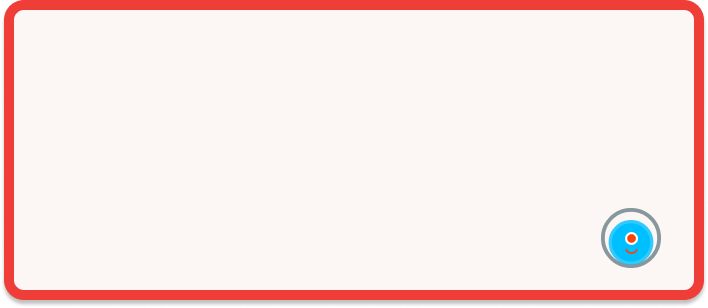
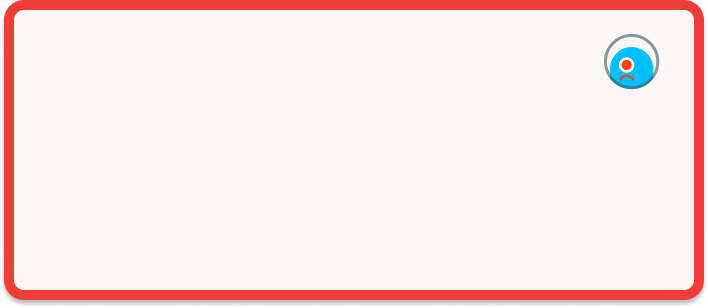
Fix. Error: after failure of Mission cannot be new input possible

Changed region(s): [[0.839, 0.6721, 0.9322, 0.8766], [0.839, 0.0877, 0.9322, 0.2922]]

diff --git a/src/tasks/TestFlight.ts b/src/tasks/TestFlight.ts
@@ -1,6 +1,7 @@
 import Phaser from 'phaser';
 import Player from '../classes/sprites/Player';
 import Wall from '../classes/sprites/Wall';
+import Star from '../classes/sprites/Star';
 import TaskHelper from '../classes/TaskHelper';
 import PopupWindow from '../classes/PopupWindow';
 import DiagramScene from '../scenes/DiagramScene';
@@ -8,6 +9,7 @@ import DiagramScene from '../scenes/DiagramScene';
 export default class TestFlight extends Phaser.GameObjects.Container {
   private player!: Player;
   private wall!: Wall;
+  private star!: Star;
   private taskHelper!: TaskHelper;
   private isSuccessPopupShowed: boolean = false;
 
@@ -18,35 +20,44 @@ export default class TestFlight extends Phaser.GameObjects.Container {
     this.player.setAngle(90);
     this.taskHelper = new TaskHelper(scene, this.player);
 
+    this.star = new Star(this.scene, 355, 315);
     this.wall = new Wall(this.scene, 405, 315);
 
     scene.add.existing(this.player);
+    scene.add.existing(this.star);
     scene.add.existing(this.wall);
   }
 
   restartSimulation = (stateInputData: any, highlightOn: boolean) => {
+    console.log('restartSimulation triggered');
     this.player.cleanUpStars();
     this.player.setPosition(155, 315).setAngle(90);
     this.player.playerHighlight.setPosition(155, 315);
+
+    this.star = new Star(this.scene, 355, 315);
+    this.scene.add.existing(this.star);
 
     this.processStateInputData(stateInputData, highlightOn);
   };
 
   processStateInputData = (stateInputData: any, highlightOn: boolean) => {
+    console.log('processStateInputData triggered');
     this.taskHelper.processStateInputData(stateInputData, highlightOn, () => {
       if (this.taskHelper.wasInfiniteLoopDetected()) {
         // Display infinite loop warning popup
-        const diagramScene = this.scene.scene.get(
-          'DiagramScene'
-        ) as DiagramScene;
-        diagramScene.popupWindow = new PopupWindow(
-          diagramScene,
-          'smBack',
-          `" Oops! \n  Looks like we're going in circles! \n  Check your instructions again.   "`,
-          false
-        );
-        diagramScene.popupWindow.create();
-        diagramScene.add.existing(diagramScene.popupWindow);
+        setTimeout(() => {
+          const diagramScene = this.scene.scene.get(
+            'DiagramScene'
+          ) as DiagramScene;
+          diagramScene.popupWindow = new PopupWindow(
+            diagramScene,
+            'smAlert',
+            `" Oops! \n  Looks like we're going in circles! \n  Check your instructions again.    "`,
+            false
+          );
+          diagramScene.popupWindow.create();
+          diagramScene.add.existing(diagramScene.popupWindow);
+        }, 800);
       } else {
         const positionsCorrect = this.checkObjectPositions();
 
@@ -85,7 +96,9 @@ export default class TestFlight extends Phaser.GameObjects.Container {
               diagramScene.add.existing(diagramScene.popupWindow);
             }, 800);
 
-            this.isSuccessPopupShowed = true;
+            this.scene.events.emit('simulationEnd');
+
+            // this.isSuccessPopupShowed = true;
           }
         }
         console.log(positionsCorrect ? 'Success' : 'Fail');
@@ -100,14 +113,15 @@ export default class TestFlight extends Phaser.GameObjects.Container {
     const isWallAt405315 = this.scene.children.list.some(
       (child) => child instanceof Wall && child.x === 405 && child.y === 315
     );
-    const isOtherObjectsExist = this.scene.children.list.some(
-      (child) =>
-        (child instanceof Player || child instanceof Wall) &&
-        !(
-          (child.x === 355 && child.y === 315) ||
-          (child.x === 405 && child.y === 315)
-        )
-    );
+    const isOtherObjectsExist =
+      this.scene.children.list.some(
+        (child) =>
+          (child instanceof Player || child instanceof Wall) &&
+          !(
+            (child.x === 355 && child.y === 315) ||
+            (child.x === 405 && child.y === 315)
+          )
+      ) || this.scene.children.list.some((child) => child instanceof Star);
 
     return isPlayerAt355315 && isWallAt405315 && !isOtherObjectsExist;
   }

diff --git a/src/classes/DropdownMenu.ts b/src/classes/DropdownMenu.ts
@@ -1,7 +1,6 @@
 import Phaser from 'phaser';
 import { SensorCheck } from './InputManager';
-import InputWindowScene from '../scenes/InputWindowScene';
-import { InputWindow } from './InputWindow';
+import InputWindow from './InputWindow';
 
 export enum SensorType {
   WallFront,
@@ -18,6 +17,7 @@ export interface DropdownOption {
 }
 
 export class DropdownMenu extends Phaser.GameObjects.Container {
+  private id: number = 0;
   private options: DropdownOption[] = [];
   private isMenuOpen: boolean = false;
   private button!: Phaser.GameObjects.Image;
@@ -31,6 +31,7 @@ export class DropdownMenu extends Phaser.GameObjects.Container {
     scene: Phaser.Scene,
     x: number,
     y: number,
+    id: number,
     buttonTexture: string,
     options: DropdownOption[],
     inputWindow?: InputWindow // Adding a new parameter to store a reference to the InputWindow instance
@@ -38,6 +39,7 @@ export class DropdownMenu extends Phaser.GameObjects.Container {
     super(scene, x, y);
     this.inputWindow = inputWindow; // Storing the reference to the InputWindow instance
 
+    this.id = id;
     this.options = options;
     this.button = this.scene.add.image(0, 0, buttonTexture).setInteractive();
     // Adding a tween animation to the button when it is added
@@ -59,7 +61,7 @@ export class DropdownMenu extends Phaser.GameObjects.Container {
         .setDepth(10)
         .on('pointerdown', () => {
           // TODO: DELETE the under test code
-          // console.log(option.value + ' selected!');
+          console.log(option.value + ' selected!');
 
           // TODO: 이 코드 다시 수정할 것 (Sensor 중복 선택하면 alert하는 함수) - 일단 주석처리
           // this.inputWindow?.checkRegistedSensor(option.type);
@@ -68,7 +70,7 @@ export class DropdownMenu extends Phaser.GameObjects.Container {
           this.selectedHightlight(menuItem, this.selectedOptionTexture);
           this.button.setTexture(this.selectedOptionTexture);
           // console.log('(DropdownMenu.ts) option: ', option);
-          // this.handleOptionSelection(option);
+          this.handleOptionSelection(option);
 
           // Check if the event handler has already been executed
           console.log(
@@ -87,7 +89,7 @@ export class DropdownMenu extends Phaser.GameObjects.Container {
 
             this.inputWindow?.addSensorDropdownButton(this); //
           }
-          this.inputWindow?.updateTempSensorInputs(option.type); //
+          this.inputWindow?.updateTempSensorInputs(this.id, option.type); //
 
           this.closeMenu();
         });
@@ -179,7 +181,8 @@ export class DropdownMenu extends Phaser.GameObjects.Container {
 
   // Dropdown의 option이 선택되면 Inputwindow의 임시 저장소에 SensorType 저장
   private handleOptionSelection(option: DropdownOption): void {
-    this.inputWindow && this.inputWindow.updateTempSensorInputs(option.type);
+    this.inputWindow &&
+      this.inputWindow.updateTempSensorInputs(this.id, option.type);
     return;
   }
 

diff --git a/src/classes/InputWindow.ts b/src/classes/InputWindow.ts
@@ -30,6 +30,7 @@ export default class InputWindow extends Phaser.GameObjects.Container {
   private nextStateButtons: NextStateButton[] = [];
   private tempSensorInputs: SensorType[] = []; // Store selected sensor button
   private inputRowCount: number = 1; // 줄 순서대로 입력을 강제하기 위한 인수
+  private sensorButtonId: number = 1;
   private inputGuideline!: InputGuideline;
   private inputGuidelines: InputGuideline[] = [];
   private isActive!: boolean;
@@ -229,14 +230,17 @@ export default class InputWindow extends Phaser.GameObjects.Container {
   };
 
   // Sensor(input) update ( When select Dropdown option )
-  updateTempSensorInputs = (sensorType: SensorType): void => {
-    const index = this.tempSensorInputs.length;
+  updateTempSensorInputs = (buttonId: number, sensorType: SensorType): void => {
+    const index = buttonId - 1;
 
     if (index >= 0 && index < 5) {
       this.tempSensorInputs[index] = sensorType;
+      // StateCircle의 StateInputs 업데이트
+      this.updateStateCircleStateInput();
     } else {
       console.log('Index out of bounds: ', index);
     }
+    console.log('tempSensorInputs', this.tempSensorInputs);
   };
 
   // Update - Condition input
@@ -433,10 +437,12 @@ export default class InputWindow extends Phaser.GameObjects.Container {
     texture: string,
     options: DropdownOption[]
   ): DropdownMenu => {
+    const buttonId = this.sensorButtonId;
     const dropdownButton = new DropdownMenu(
       this.scene,
       x,
       y,
+      buttonId,
       texture,
       options,
       this
@@ -451,16 +457,19 @@ export default class InputWindow extends Phaser.GameObjects.Container {
       this
     );
 
+    console.log('dropdownButton', dropdownButton);
     return dropdownButton;
   };
 
-  // Used to create addtional dropdown button, when option selected
+  // Used to create addtional dropdown button, when option select
   addSensorDropdownButton(clickedDropdown: DropdownMenu) {
     const registedSensorCount = this.tempSensorInputs.length;
 
     if (registedSensorCount < 3) {
       let newX = clickedDropdown.getX + 50;
       let newY = clickedDropdown.getY;
+
+      this.sensorButtonId++;
 
       const newDropdownButton = this.createSensorDropdownButton(
         newX,

diff --git a/src/classes/TaskHelper.ts b/src/classes/TaskHelper.ts
@@ -118,16 +118,6 @@ export default class TaskHelper {
         sameStateCount++;
         if (sameStateCount >= maxSameStateCount) {
           this.infiniteLoopDetected = true; // Set the flag
-          // const diagramScene = this.scene.scene.get(
-          //   'DiagramScene'
-          // ) as DiagramScene;
-          // diagramScene.popupWindow = new PopupWindow(
-          //   diagramScene,
-          //   'popupSmAlert',
-          //   `" Oops! Looks like we're going in circles! \n Check your instructions again."`,
-          //   false
-          // );
-
           console.error('Infinite loop detected in processStateInputData.');
           break; // Exit the loop if the threshold is reached
         }
@@ -249,6 +239,7 @@ export default class TaskHelper {
     // }
   };
 
+  // Let know there's Infinite loop detected
   wasInfiniteLoopDetected = (): boolean => {
     return this.infiniteLoopDetected;
   };

diff --git a/src/classes/sprites/Player.ts b/src/classes/sprites/Player.ts
@@ -87,6 +87,11 @@ export default class Player extends BaseSprite {
         star.destroy();
       }
     });
+    this.scene.children.list.forEach((child) => {
+      if (child instanceof Star) {
+        child.destroy();
+      }
+    });
   };
 
   playerHighlightOn = (): void => {
@@ -222,6 +227,8 @@ export default class Player extends BaseSprite {
 
     if (star) {
       star.destroy();
+      console.log('star destroyed');
+      // this.scene.children.list.forEach((child) => console.log(child));
       return true;
     } else {
       console.log('No star to pick');

diff --git a/src/scenes/DiagramScene.ts b/src/scenes/DiagramScene.ts
@@ -60,6 +60,9 @@ export default class DiagramScene extends Phaser.Scene {
       () => this.stateCircleManager.updateStateCircleNameById,
       this
     );
+    this.events.on('simulationEnd', () => {
+      this.setIsMissionInitiated = true;
+    });
 
     // this.scene.moveAbove('InputWindowScene', 'DiagramScene');
     this.scene.moveAbove('DiagramScene', 'PlaygroundScene');

diff --git a/src/classes/EdgeManager.ts b/src/classes/EdgeManager.ts
@@ -14,7 +14,7 @@ export default class EdgeManager {
     circleB: StateCircle,
     baseYOffset: number = 15
   ): Phaser.GameObjects.Graphics {
-    console.log('Crate Edge btw ', circleA, ' and ', circleB);
+    // console.log('Crate Edge btw ', circleA, ' and ', circleB);
     const edge = this.diagramScene.add.graphics();
     edge.lineStyle(2, 0x000000); // Set line style
 

diff --git a/src/classes/PopupWindow.ts b/src/classes/PopupWindow.ts
@@ -5,7 +5,7 @@ const popupTypeConfig = [
   { id: 'sm', texture: 'popupSm' },
   { id: 'smAlert', texture: 'popupSmAlert' },
   { id: 'md', texture: 'popupMd' },
-  { id: 'mmAlert', texture: 'popupMdAlert' },
+  { id: 'mdAlert', texture: 'popupMdAlert' },
   { id: 'default', texture: 'popupMd' },
 ];
 

diff --git a/src/classes/InputLabel.ts b/src/classes/InputLabel.ts
@@ -1,6 +1,5 @@
 import Phaser from 'phaser';
 import DiagramScene from '../scenes/DiagramScene';
-import InputWindowScene from '../scenes/InputWindowScene';
 import StateCircle from './StateCircle';
 
 export default class InputLabel extends Phaser.GameObjects.Container {
